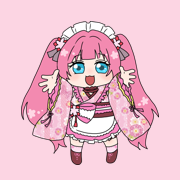
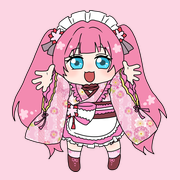
ホーム画面アイコン: ちびキャラを少し大きく
Claude-Session: https://claude.ai/code/session_01ErYMeBbZWAhR2ew4XwvBJ7

diff --git a/index.html b/index.html
@@ -4,7 +4,7 @@
 <meta name="robots" content="noindex,nofollow">
 <style>html.locked body>:not(#gate){visibility:hidden}</style>
 <script>/* 自動更新チェック: version.json と違えば読み込み直す */
-window.HANA_V="202611271602";
+window.HANA_V="202611271612";
 (function(){try{fetch("version.json?t="+Date.now(),{cache:"no-store"}).then(function(r){return r.json()}).then(function(j){
 if(j&&j.v&&j.v!==window.HANA_V){var k="hana_vr";if(sessionStorage.getItem(k)===j.v)return;sessionStorage.setItem(k,j.v);
 var u=new URL(location.href);u.searchParams.set("r",j.v);var go=function(){location.replace(u.toString())};try{fetch(location.pathname,{cache:"reload"}).then(go,go)}catch(e){go()}}}).catch(function(){})}catch(e){}})();
@@ -29,7 +29,7 @@ var u=new URL(location.href);u.searchParams.set("r",j.v);var go=function(){locat
 <meta property="og:description" content="毎日17:30と22:00に雑談配信。おみくじ・スタンプカードもあるよ🌸">
 <meta property="og:image" content="img/icon-512.png">
 <meta name="twitter:card" content="summary">
-<link rel="stylesheet" href="style.css?v=202611271602">
+<link rel="stylesheet" href="style.css?v=202611271612">
 </head>
 <body>
 <div class="petals" id="petals" aria-hidden="true"></div>
@@ -191,9 +191,9 @@ var u=new URL(location.href);u.searchParams.set("r",j.v);var go=function(){locat
   <button class="tab" data-page="play"><i><b class="ti" style="background-image:url(img/ico-sakura.png)"></b></i><span>あそぶ</span></button>
 </nav>
 
-<script src="config.js?v=202611271602"></script>
-<script src="gate.js?v=202611271602"></script>
-<script src="api.js?v=202611271602"></script>
-<script src="app.js?v=202611271602"></script>
+<script src="config.js?v=202611271612"></script>
+<script src="gate.js?v=202611271612"></script>
+<script src="api.js?v=202611271612"></script>
+<script src="app.js?v=202611271612"></script>
 </body>
 </html>

diff --git a/admin/index.html b/admin/index.html
@@ -11,7 +11,7 @@
 <link rel="icon" href="../favicon.png" type="image/png">
 <link rel="apple-touch-icon" href="../img/apple-touch-icon.png">
 <link href="https://fonts.googleapis.com/css2?family=Mochiy+Pop+One&family=Zen+Maru+Gothic:wght@400;500;700&display=swap" rel="stylesheet">
-<link rel="stylesheet" href="admin.css?v=202611271602">
+<link rel="stylesheet" href="admin.css?v=202611271612">
 </head>
 <body>
 <header class="bar">
@@ -53,8 +53,8 @@
 </main>
 
 <div class="toast" id="toast" role="status" aria-live="polite"></div>
-<script src="../config.js?v=202611271602"></script>
-<script src="../api.js?v=202611271602"></script>
-<script src="admin.js?v=202611271602"></script>
+<script src="../config.js?v=202611271612"></script>
+<script src="../api.js?v=202611271612"></script>
+<script src="admin.js?v=202611271612"></script>
 </body>
 </html>
